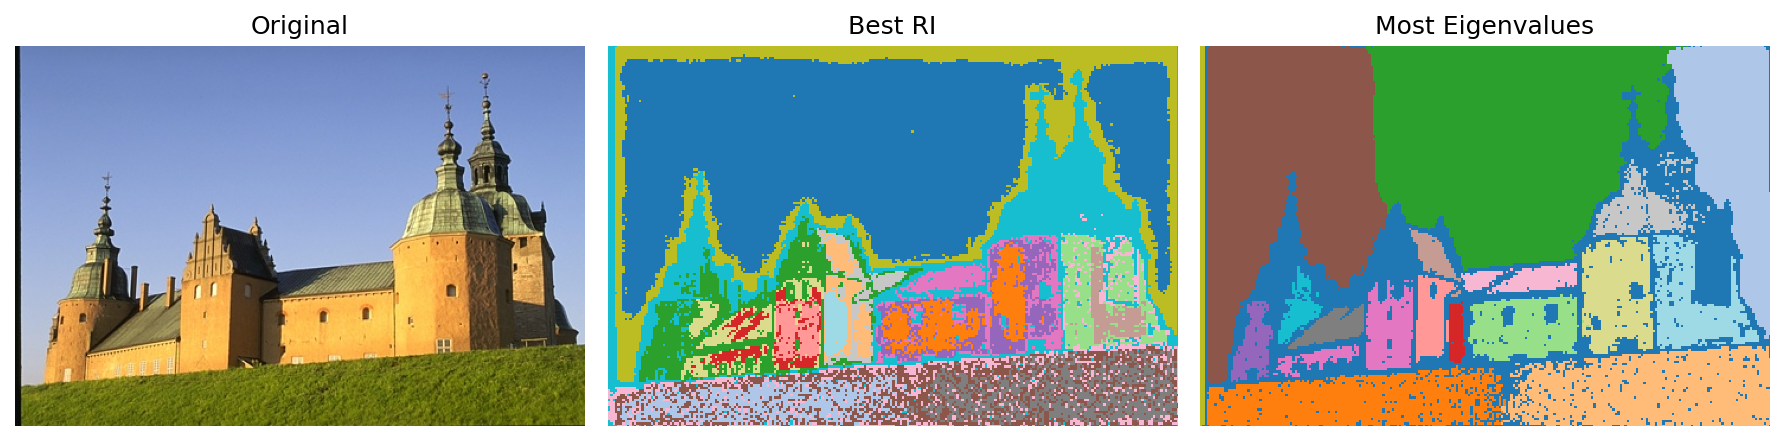
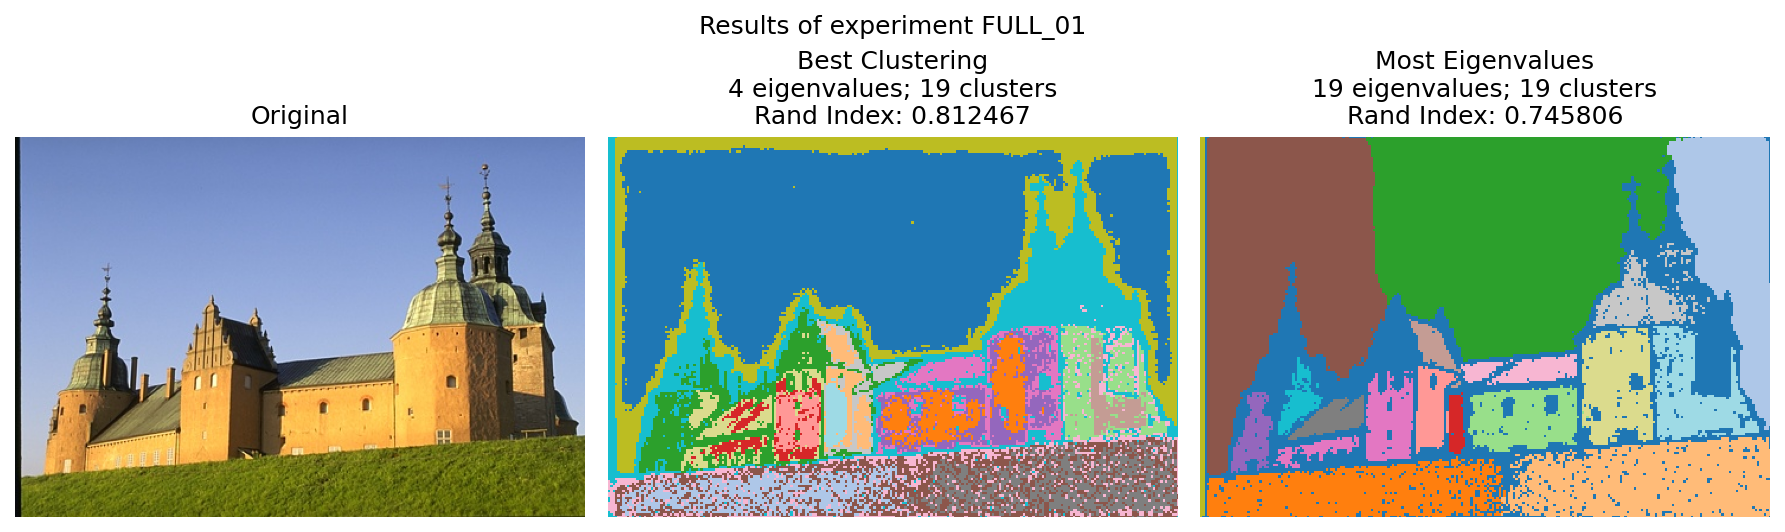
finalised bsds analysis script in python

diff --git a/analyseBSDSExperiments.py b/analyseBSDSExperiments.py
@@ -10,6 +10,8 @@ from skimage import io as skio
 import matplotlib.pyplot as plt
 import argparse
 
+
+
 # ----------------------------------------------------------------------
 # Random helpers
 # ----------------------------------------------------------------------
@@ -19,8 +21,6 @@ def _to_int_labels(arr: np.ndarray) -> np.ndarray:
     if not np.issubdtype(arr.dtype, np.integer):
         arr = np.nan_to_num(arr, nan=0.0).astype(np.int64, copy=False)
     return arr
-
-
 
 def _comb2(x: np.ndarray | int) -> np.ndarray | int:
     """n choose 2, element‑wise for arrays (integer arithmetic)."""
@@ -110,26 +110,23 @@ def analyse_one_result(pred_mat: Path, gt_mat: Path
     return ris, vois, eig_nums
 
 
-def analyse_bsds_results(exp_name, 
-                         split: str = "test",
-                         seg_dir: Path = Path("results/bsds/segs"),
-                         gt_root: Path = Path("data/bsds/BSR/BSDS500/data/groundTruth"),
-                         ) -> None:
-    out_csv =  Path("results/bsds/csv_results/" +  exp_name + ".csv")
-    gt_dir = (gt_root / split).expanduser()
-    seg_dir = seg_dir.expanduser()
-    if not seg_dir.is_dir():
-        raise FileNotFoundError(seg_dir)
-    if not gt_dir.is_dir():
-        raise FileNotFoundError(gt_dir)
+def analyse_bsds_results(split: str = "test") -> None:
+    out_csv =  Path("results/bsds/csv_results/" +  experiment_name + ".csv")
+    
+    gt_dir_expanded = (gt_root / split).expanduser()
+    seg_dir_expanded = seg_dir.expanduser()
+    if not seg_dir_expanded.is_dir():
+        raise FileNotFoundError(seg_dir_expanded)
+    if not gt_dir_expanded.is_dir():
+        raise FileNotFoundError(gt_dir_expanded)
 
     out_csv.parent.mkdir(parents=True, exist_ok=True)
     with out_csv.open("w", newline="") as fh:
         writer = csv.writer(fh)
         writer.writerow(["id", "k", "eigs", "ri", "voi"])
-        for pred_path in sorted(seg_dir.glob("*.mat")):
+        for pred_path in sorted(seg_dir_expanded.glob("*.mat")):
             img_id = pred_path.stem
-            gt_path = gt_dir / f"{img_id}.mat"
+            gt_path = gt_dir_expanded / f"{img_id}.mat"
             if not gt_path.exists():
                 print(f"[warn] No ground truth for {img_id}, skipping …")
                 continue
@@ -143,7 +140,7 @@ def analyse_bsds_results(exp_name,
                     f"{ri:.6f}",                     
                     f"{voi:.6f}"                     
                 ])
-    print(f"✔  Evaluation saved to {out_csv}")
+    print(f"[Evaluation saved] to {out_csv}")
 
 
 # ----------------------------------------------------------------------
@@ -160,10 +157,7 @@ def _friendly_save_msg(save_path: Path) -> str:
 
 
 def compare_segmentations(img_id: str,
-                          seg_dir: Path = Path("results/bsds/segs"),
-                          img_root: Path = Path("data/bsds/BSR/BSDS500/data/images"),
                           split_priority: tuple[str, ...] = ("test", "train"),
-                          gt_root: Path = Path("data/bsds/BSR/BSDS500/data/groundTruth"),
                           save_path: Path | None = None,
                           show: bool = True) -> None:
     pred_file = seg_dir / f"{img_id}.mat"
@@ -196,13 +190,15 @@ def compare_segmentations(img_id: str,
     ]
 
     idx_best_ri = int(np.argmax(ri_scores))
-    idx_most_eigs = int(np.argmax(eig_nums))
-    chosen = set([idx_best_ri, idx_most_eigs])  
+    idx_most_eigs = int(np.argmax(eig_nums)) 
 
     # Generate the plot
     # ncols = 1 + len(segs)
     ncols = 3
+
+
     plt.figure(figsize=(4 * ncols, 4))
+    plt.suptitle("Results of experiment " + experiment_name )
 
     plt.subplot(1, ncols, 1)
     plt.imshow(image)
@@ -211,12 +207,18 @@ def compare_segmentations(img_id: str,
 
     plt.subplot(1, ncols, 2)
     plt.imshow(segs[idx_best_ri], interpolation="nearest", cmap="tab20")
-    plt.title("Best RI")
+    plt.title("Best Clustering\n" + 
+              str(eig_nums[idx_best_ri]) + " eigenvalues; "
+              + str(eig_nums[-1]) + " clusters" 
+              + "\nRand Index: " + str( f"{ri_scores[idx_best_ri]:.6f}"))
     plt.axis("off")
 
     plt.subplot(1, ncols, 3)
     plt.imshow(segs[idx_most_eigs], interpolation="nearest", cmap="tab20")
-    plt.title("Most Eigenvalues")
+    plt.title("Most Eigenvalues\n" + 
+              str(eig_nums[idx_most_eigs]) + " eigenvalues; "
+              + str(eig_nums[-1]) + " clusters" 
+              + "\nRand Index: " + str( f"{ri_scores[idx_most_eigs]:.6f}"))
     plt.axis("off")
 
 
@@ -235,8 +237,7 @@ def compare_segmentations(img_id: str,
         plt.close()
 
 
-def export_visualisations(exp_name ,
-                        seg_dir: Path = Path("results/bsds/segs"),
+def export_visualisations(seg_dir: Path = Path("results/bsds/segs"),
                         img_root: Path = Path("data/bsds/BSR/BSDS500/data/images"),
                         out_dir: Path = Path("results/bsds/visualisations"),
                         split_priority: tuple[str, ...] = ("test", "train")) -> None:
@@ -247,14 +248,12 @@ def export_visualisations(exp_name ,
 
     for pred_path in sorted(seg_dir.glob("*.mat")):
         img_id = pred_path.stem
-        save_path = out_dir / exp_name / f"{img_id}.png"
+        save_path = out_dir / experiment_name / f"{img_id}.png"
         compare_segmentations(img_id,
-                              seg_dir=seg_dir,
-                              img_root=img_root,
                               split_priority=split_priority,
                               save_path=save_path,
                               show=False)
-    print(f"✔  Visualisations saved to {_friendly_save_msg(out_dir / exp_name)}")
+    print(f"[Visualisations saved] to {_friendly_save_msg(out_dir / experiment_name)}")
 
 
 
@@ -271,8 +270,18 @@ def parse_args():
 
 def main():
     args = parse_args()
-    analyse_bsds_results(exp_name = args.experiment_name)
-    export_visualisations(exp_name = args.experiment_name)
+    global experiment_name 
+    global seg_dir
+    global gt_root 
+    global img_root
+    experiment_name = args.experiment_name
+    seg_dir = Path("results/bsds/segs")
+    gt_root = Path("data/bsds/BSR/BSDS500/data/groundTruth")
+    img_root = Path("data/bsds/BSR/BSDS500/data/images")
+
+    print("Analysing BSDS experiment named: " + experiment_name)
+    analyse_bsds_results()
+    export_visualisations()
 
 if __name__ == "__main__":
     main()

diff --git a/runAllExperiments.py b/runAllExperiments.py
@@ -20,7 +20,7 @@ for experiment in experiments:
     subprocess.run(["python3", "experiments.py", data, sim_matrix])
 
     # run the evaluation 
-    subprocess.run(["python3", "analyseBSDSExperiments.py"])
+    subprocess.run(["python3", "analyseBSDSExperiments.py", name ])
 
     # append evaluation to results with the name of the experiment and the configsss
 
